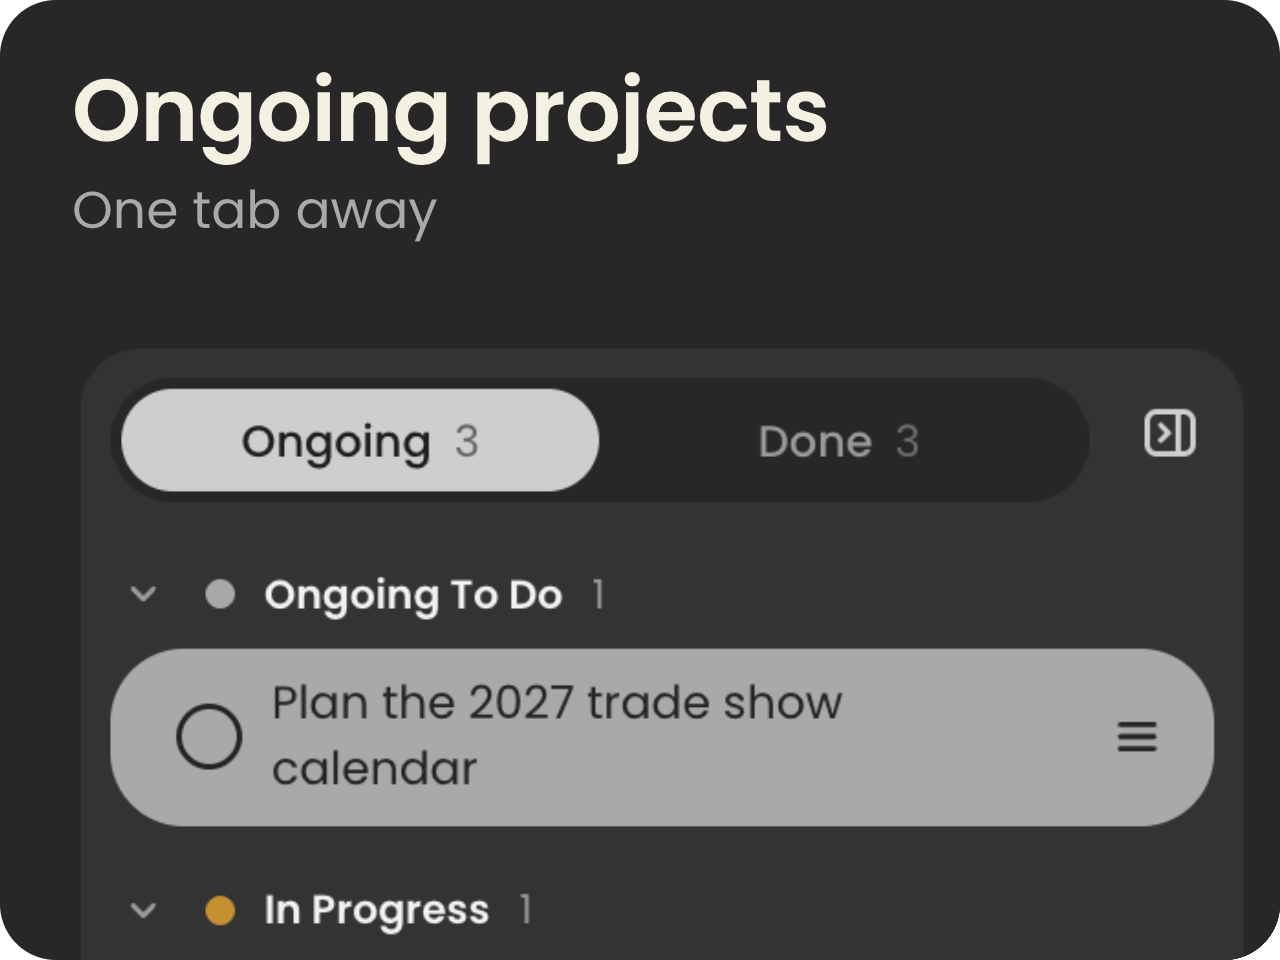
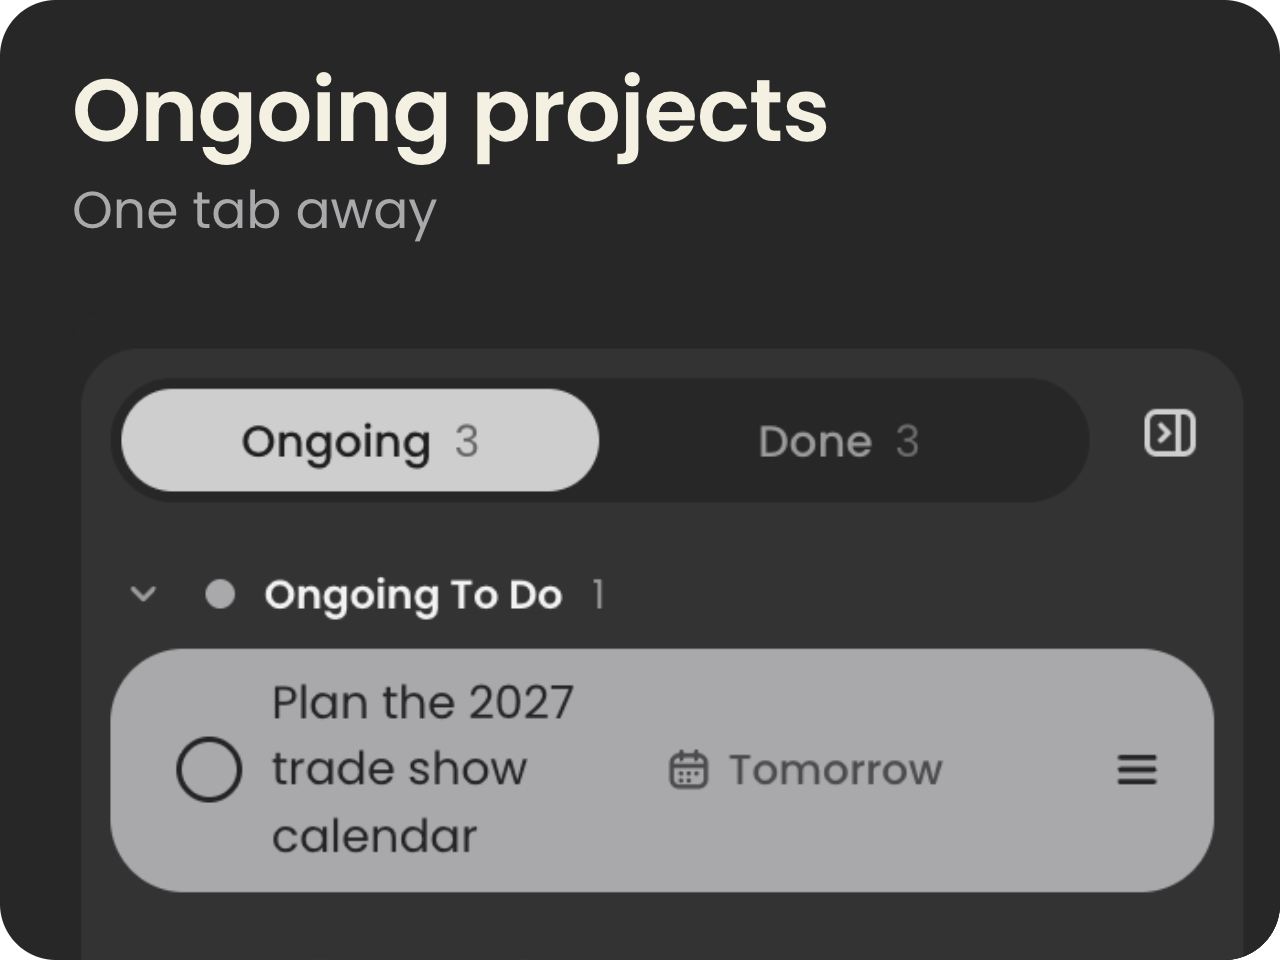
README: a Due dates card, and dates on the board in the card pictures
Claude-Session: https://claude.ai/code/session_011PTfe7xKzt23VoYTLJw37V

Changed region(s): [[0.0625, 0.7188, 0.9688, 0.9688], [0.4375, 0.7188, 0.6562, 0.75]]

diff --git a/tools/readme/art.html b/tools/readme/art.html
@@ -63,6 +63,8 @@ const ITEMS = {
   'card-notes': () => card('Rich notes', 'Files, links, formatting', crop('notes-rich-dark', 46, 172, 446)),
   'card-ongoing': () => card('Ongoing projects', 'One tab away', crop('ongoing-dark', 488, 134, 330)),
   'card-search': () => card('Live search', 'Text and notes', crop('search-light', 46, 82, 700)),
+  // The calendar open under a row's Today label (shot calendar-dark).
+  'card-due': () => card('Due dates', 'Today, Fri, red when late', crop('calendar-dark', 56, 172, 528)),
   'download': () => `<div class="dl">${DOWNLOAD}<span>Download for Mac</span></div>`,
   'social-preview': () => `<div class="social">
       <div class="glow" style="width:420px;height:300px;left:-120px;top:-150px;background:rgba(205,141,0,.30)"></div>

diff --git a/README.md b/README.md
@@ -30,6 +30,9 @@
   <img src="docs/readme/card-ongoing.png" width="49%" alt="Ongoing projects, one tab away">
   <img src="docs/readme/card-search.png" width="49%" alt="Live search through text and notes">
 </p>
+<p align="center">
+  <img src="docs/readme/card-due.png" width="49%" alt="Due dates: pick a day from the calendar on the row; it reads Today or Fri, and turns red when late">
+</p>
 
 ## Talk to ClearDay through Claude or Codex
 
